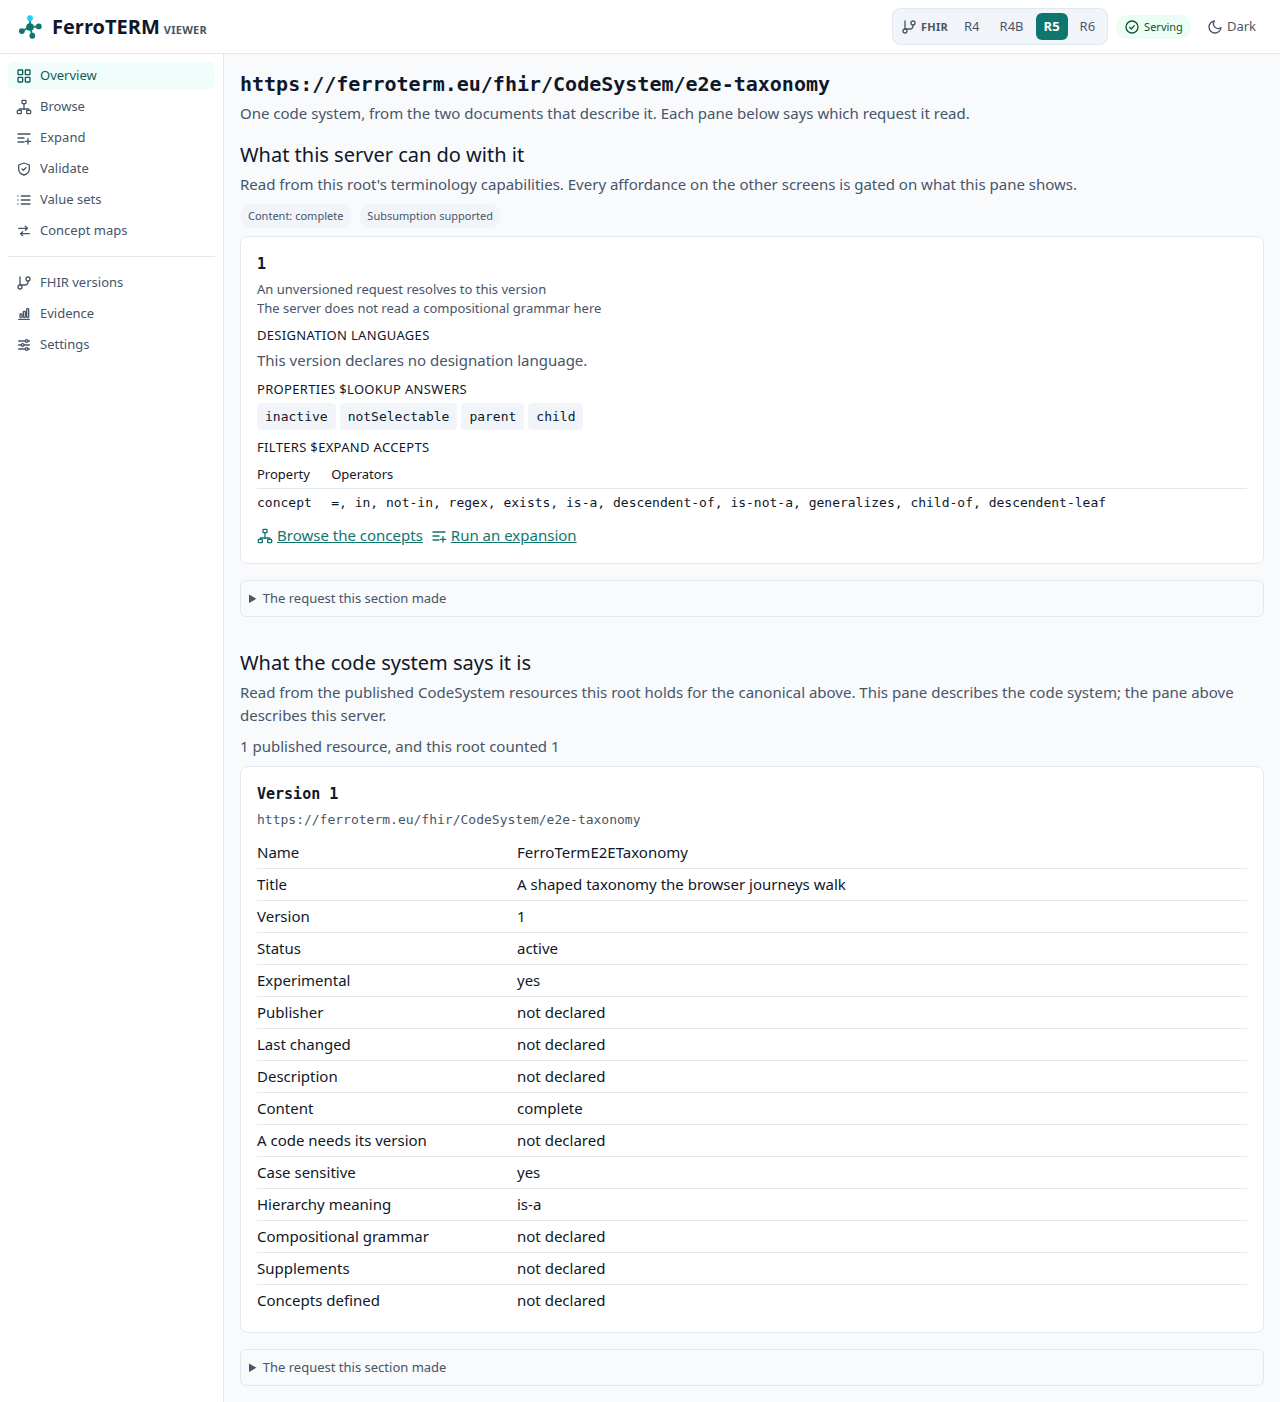
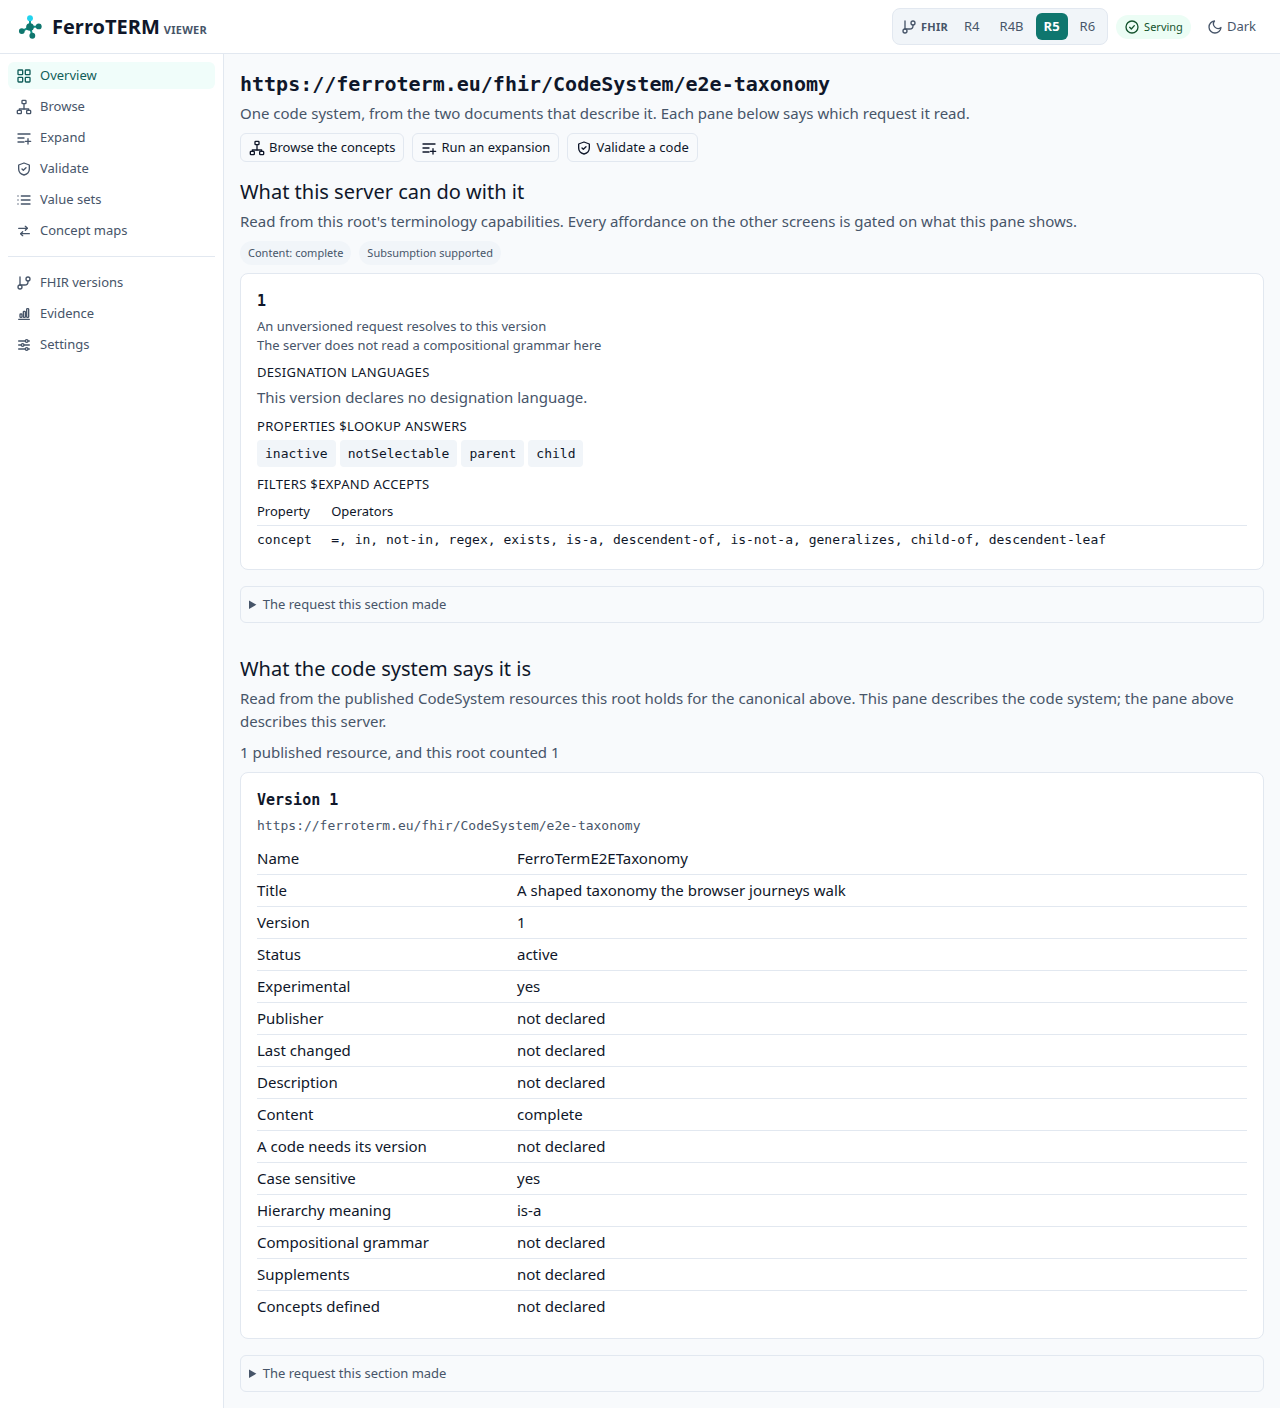
feat(viewer): the reading screens, one header of actions and three panes that stand still
The code system screen repeated a navigation strip under every served version,
three links each, below the facts they act on. There is one strip now, in the
header beside the canonical, for the version an unversioned request resolves
to, and it carries the third action the screen never offered: validate a code
against this system. The concept browser appears there only where that version
declares the direct-child operator, because a tree with no operator to walk it
has nothing to draw
(https://hl7.org/fhir/R5/codesystem-filter-operator.html). One read of the
terminology capabilities now serves the header and the pane below it.

The concept browser stacked search, the concept, and the tree, so walking a
hierarchy scrolled the search off the top of the window. Above the large
breakpoint it is three panes in the order of the work, each scrolling its own
content between two bounds: below the lower one a pane holds too few rows to
walk, above the upper one the eye loses the row it was on. Below that
breakpoint it is the same stack it was. The screen went from 1493 pixels to
801.

The tree keeps its ARIA tree view contract, which the journey still proves:
one tab stop, arrow keys to walk and open, Enter to read, every move a
navigation.

diff --git a/app/ferroterm-viewer/style/tailwind.css b/app/ferroterm-viewer/style/tailwind.css
@@ -191,6 +191,15 @@
   padding: var(--panel-p);
 }
 
+/* A pane of a reading surface scrolls its own content, so walking a tree does
+   not move the search beside it. The height follows the window between two
+   bounds: below the lower one a pane holds too few rows to walk, above the
+   upper one the eye loses the row it was on. */
+@utility pane-scroll {
+  max-height: clamp(24rem, calc(100vh - 20rem), 48rem);
+  overflow-y: auto;
+}
+
 @utility state-change {
   transition-property: color, background-color, border-color;
   transition-timing-function: ease-out;

diff --git a/app/ferroterm-viewer/src/pages/code_system.rs b/app/ferroterm-viewer/src/pages/code_system.rs
@@ -14,18 +14,23 @@ use leptos_router::params::Params;
 use crate::components::NOT_DECLARED;
 use crate::components::failure::Failure;
 use crate::components::icon;
+use crate::components::icon::Glyph;
 use crate::components::icon::Icon;
 use crate::components::reading::Reading;
 use crate::components::request_disclosure::RequestDisclosure;
 use crate::components::shell::SelectedVersion;
 use crate::fhir::FhirClient;
 use crate::fhir::code_system::PublishedCodeSystem;
+use crate::fhir::concept::Hierarchy;
+use crate::fhir::concept::chosen_version;
 use crate::fhir::error::FhirError;
 use crate::fhir::terminology::SystemCard;
+use crate::fhir::terminology::TerminologyCapabilities;
 use crate::fhir::terminology::VersionRow;
 use crate::fhir::version::FhirVersion;
 use crate::routes::BROWSE_PATH;
 use crate::routes::EXPAND_PATH;
+use crate::routes::VALIDATE_PATH;
 use crate::routes::system_tool_link;
 use crate::styles;
 
@@ -62,19 +67,32 @@ pub(crate) fn CodeSystemPage() -> impl IntoView {
             .unwrap_or_default()
     });
 
+    // One read of the terminology capabilities serves both the header and the
+    // pane below it: the header offers a screen only where this root declares
+    // the system can answer it, which is the same fact the pane draws.
+    let header_client = client.clone();
+    let capabilities = LocalResource::new(move || {
+        let client = header_client.clone();
+        let version = version.get();
+        async move { client.terminology_capabilities(version).await }
+    });
+
     let title = move || system.with(|system| title_of(system));
     let heading = view! {
         <Title text=title />
-        <h1 class="font-mono text-title font-semibold break-all">
-            {move || system.with(|system| heading_of(system))}
-        </h1>
-        <p class=styles::LEAD>
-            "One code system, from the two documents that describe it. Each pane below says which request it read."
-        </p>
+        <header>
+            <h1 class="font-mono text-title font-semibold break-all">
+                {move || system.with(|system| heading_of(system))}
+            </h1>
+            <p class=styles::LEAD>
+                "One code system, from the two documents that describe it. Each pane below says which request it read."
+            </p>
+            {move || tools_view(capabilities, system, version)}
+        </header>
     }
     .into_any();
 
-    let capability = capability_section(&client, version, system);
+    let capability = capability_section(&client, version, system, capabilities);
     let published = published_section(&client, version, system);
 
     view! {
@@ -107,13 +125,8 @@ fn capability_section(
     client: &FhirClient,
     version: Signal<FhirVersion>,
     system: Signal<String>,
+    capabilities: LocalResource<Result<TerminologyCapabilities, FhirError>>,
 ) -> AnyView {
-    let read_client = client.clone();
-    let capabilities = LocalResource::new(move || {
-        let client = read_client.clone();
-        let version = version.get();
-        async move { client.terminology_capabilities(version).await }
-    });
     let url_client = client.clone();
     let url = Signal::derive(move || url_client.terminology_metadata_url(version.get()));
 
@@ -135,7 +148,7 @@ fn capability_section(
                                     Ok(document) => {
                                         let found = system.with(|system| document.card(system));
                                         match found {
-                                            Some(card) => support_view(card, version.get()),
+                                            Some(card) => support_view(card),
                                             None => undeclared_view(),
                                         }
                                     }
@@ -181,7 +194,7 @@ fn failure_view(error: &FhirError) -> AnyView {
 /// than re-rendered, so switching FHIR version or code system would keep every
 /// block's old body (verified in `leptos` 0.8.20 `for_loop.rs` and `tachys`
 /// 0.2.18 `view/keyed.rs`).
-fn support_view(card: SystemCard, version: FhirVersion) -> AnyView {
+fn support_view(card: SystemCard) -> AnyView {
     let content = card.content.map_or_else(
         || format!("Content {NOT_DECLARED} at this FHIR version"),
         |mode| format!("Content: {mode}"),
@@ -200,21 +213,15 @@ fn support_view(card: SystemCard, version: FhirVersion) -> AnyView {
     .into_any();
 
     if card.versions.is_empty() {
-        let links = tools_view(&card.url, None, version);
         return view! {
             {badges}
             <p class="mt-default text-body text-muted">
                 "This server declares no version for this code system."
             </p>
-            {links}
         }
         .into_any();
     }
-    let blocks: Vec<AnyView> = card
-        .versions
-        .iter()
-        .map(|row| version_view(&card.url, row, version))
-        .collect();
+    let blocks: Vec<AnyView> = card.versions.iter().map(version_view).collect();
     view! {
         {badges}
         <div class="mt-default grid gap-loose">{blocks}</div>
@@ -223,7 +230,7 @@ fn support_view(card: SystemCard, version: FhirVersion) -> AnyView {
 }
 
 /// One served version: what it holds, what it filters on, what it answers.
-fn version_view(system: &str, row: &VersionRow, version: FhirVersion) -> AnyView {
+fn version_view(row: &VersionRow) -> AnyView {
     let code = row
         .code
         .clone()
@@ -249,7 +256,6 @@ fn version_view(system: &str, row: &VersionRow, version: FhirVersion) -> AnyView
         "This version declares no $lookup property.",
     );
     let filters = filter_view(row);
-    let links = tools_view(system, row.code.as_deref(), version);
     view! {
         <article class=format!("panel-p {}", styles::PANEL)>
             <h3 class="font-mono text-body font-semibold break-all">{code}</h3>
@@ -258,7 +264,6 @@ fn version_view(system: &str, row: &VersionRow, version: FhirVersion) -> AnyView
             {languages}
             {properties}
             {filters}
-            {links}
         </article>
     }
     .into_any()
@@ -350,29 +355,54 @@ fn filter_view(row: &VersionRow) -> AnyView {
 }
 
 /// The screens that work over this system, carrying it and its version.
-fn tools_view(system: &str, code: Option<&str>, version: FhirVersion) -> AnyView {
-    let browse = system_tool_link(BROWSE_PATH, system, code, version);
-    let expand = system_tool_link(EXPAND_PATH, system, code, version);
-    let named = code.map_or_else(
-        || "this code system".to_owned(),
-        |code| format!("version {code}"),
-    );
-    view! {
-        <nav
-            aria-label=format!("Screens for {named}")
-            class="mt-default flex flex-wrap gap-default text-body"
-        >
-            <a href=browse class="inline-flex items-center gap-tight text-accent underline">
-                <Icon glyph=icon::BROWSE />
-                "Browse the concepts"
-            </a>
-            <a href=expand class="inline-flex items-center gap-tight text-accent underline">
-                <Icon glyph=icon::EXPAND />
-                "Run an expansion"
-            </a>
-        </nav>
+///
+/// One strip, in the header, for the version an unversioned request resolves
+/// to. A per-version strip repeated the same three links down the page and put
+/// the actions below the facts they act on.
+///
+/// The concept browser appears only where that version declares the
+/// direct-child operator, because a tree with no operator to walk it has
+/// nothing to draw (<https://hl7.org/fhir/R5/codesystem-filter-operator.html>).
+fn tools_view(
+    capabilities: LocalResource<Result<TerminologyCapabilities, FhirError>>,
+    system: Signal<String>,
+    version: Signal<FhirVersion>,
+) -> Option<AnyView> {
+    let card = capabilities.with(|answered| {
+        let document = answered.as_ref()?.as_ref().ok()?;
+        system.with(|system| document.card(system))
+    })?;
+    if card.url.is_empty() {
+        return None;
     }
-    .into_any()
+    let served = chosen_version(&card, None);
+    let code = served.as_ref().and_then(|row| row.code.clone());
+    let walkable = served.is_some_and(|row| Hierarchy::of(&row).walk().is_some());
+    let at = version.get();
+    let link = |path: &str, glyph: Glyph, label: &'static str| {
+        let href = system_tool_link(path, &card.url, code.as_deref(), at);
+        view! {
+            <a href=href class=styles::BUTTON>
+                <Icon glyph=glyph />
+                {label}
+            </a>
+        }
+        .into_any()
+    };
+    let browse = walkable.then(|| link(BROWSE_PATH, icon::BROWSE, "Browse the concepts"));
+    Some(
+        view! {
+            <nav
+                aria-label="Screens for this code system"
+                class="mt-default flex flex-wrap gap-default"
+            >
+                {browse}
+                {link(EXPAND_PATH, icon::EXPAND, "Run an expansion")}
+                {link(VALIDATE_PATH, icon::VALIDATE, "Validate a code")}
+            </nav>
+        }
+        .into_any(),
+    )
 }
 
 /// What the code system itself says it is, from the published resource.

diff --git a/app/ferroterm-viewer/src/pages/browse.rs b/app/ferroterm-viewer/src/pages/browse.rs
@@ -175,12 +175,17 @@ pub(crate) fn BrowsePage() -> impl IntoView {
     let concept = concept_section(&client, version, params, declared, named);
     let tree = tree_section(&client, version, params, declared, count);
 
+    // Three panes side by side above the large breakpoint, each scrolling its
+    // own content, and one stack below it. The order is the order of the work:
+    // search for a concept, walk what is under it, read the one you landed on.
     view! {
         {heading}
         {system}
-        {search}
-        {concept}
-        {tree}
+        <div class="mt-section grid gap-loose lg:grid-cols-[20rem_minmax(0,1fr)_24rem]">
+            <div class="min-w-0 lg:pane-scroll">{search}</div>
+            <div class="min-w-0 lg:pane-scroll">{tree}</div>
+            <div class="min-w-0 lg:pane-scroll">{concept}</div>
+        </div>
     }
 }
 
@@ -610,7 +615,7 @@ fn search_section(
 
     let body = move || {
         view! {
-            <section class="mt-section" aria-labelledby="browse-search-heading">
+            <section aria-labelledby="browse-search-heading">
                 <h2 id="browse-search-heading" class=styles::SECTION_TITLE>
                     "Search"
                 </h2>
@@ -795,7 +800,7 @@ fn concept_section(
     };
     let body = move || {
         view! {
-            <section class="mt-section" aria-labelledby="browse-concept-heading">
+            <section aria-labelledby="browse-concept-heading">
                 <h2 id="browse-concept-heading" class=styles::SECTION_TITLE>
                     "The concept"
                 </h2>
@@ -1159,7 +1164,7 @@ fn tree_section(
 
     let body = move || {
         view! {
-            <section class="mt-section" aria-labelledby="browse-tree-heading">
+            <section aria-labelledby="browse-tree-heading">
                 <h2 id="browse-tree-heading" class=styles::SECTION_TITLE>
                     "Below this concept"
                 </h2>
